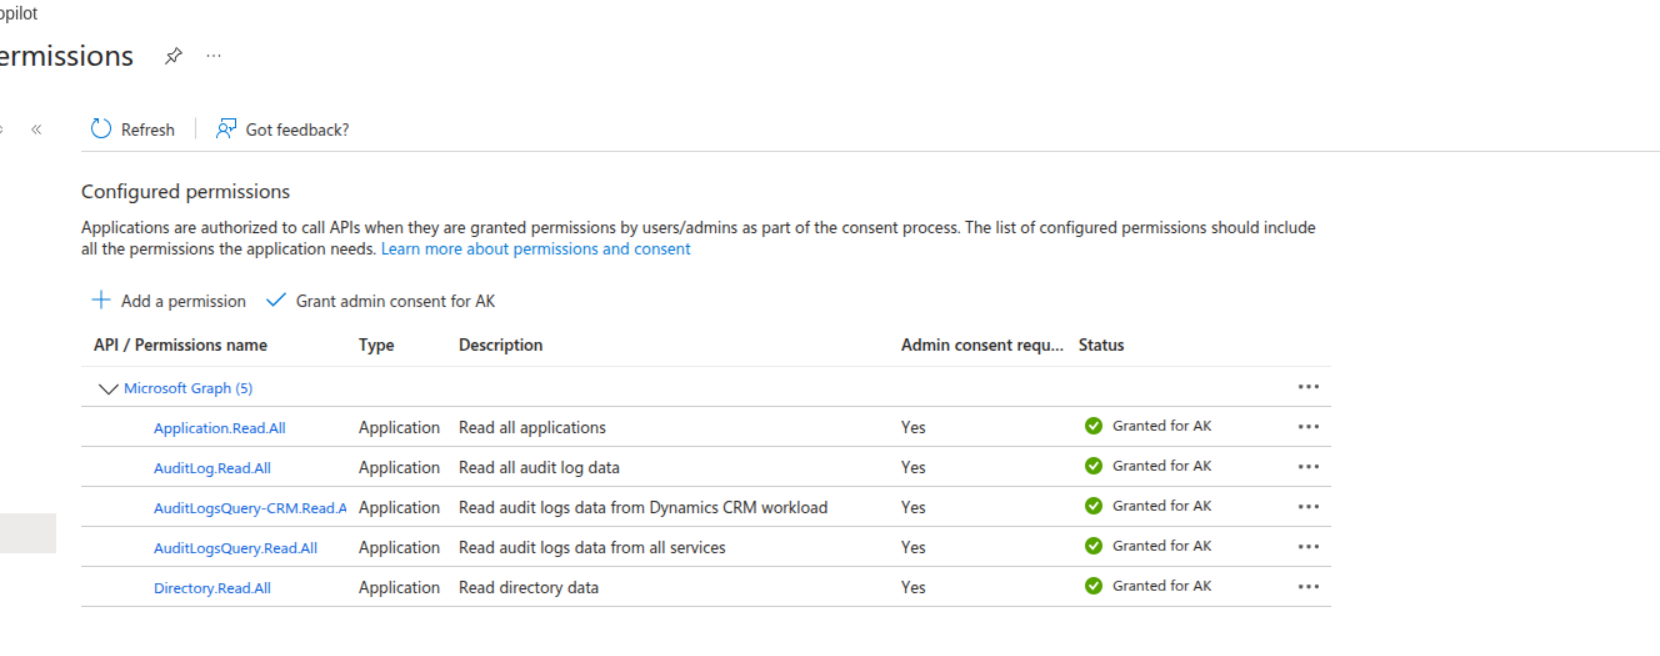
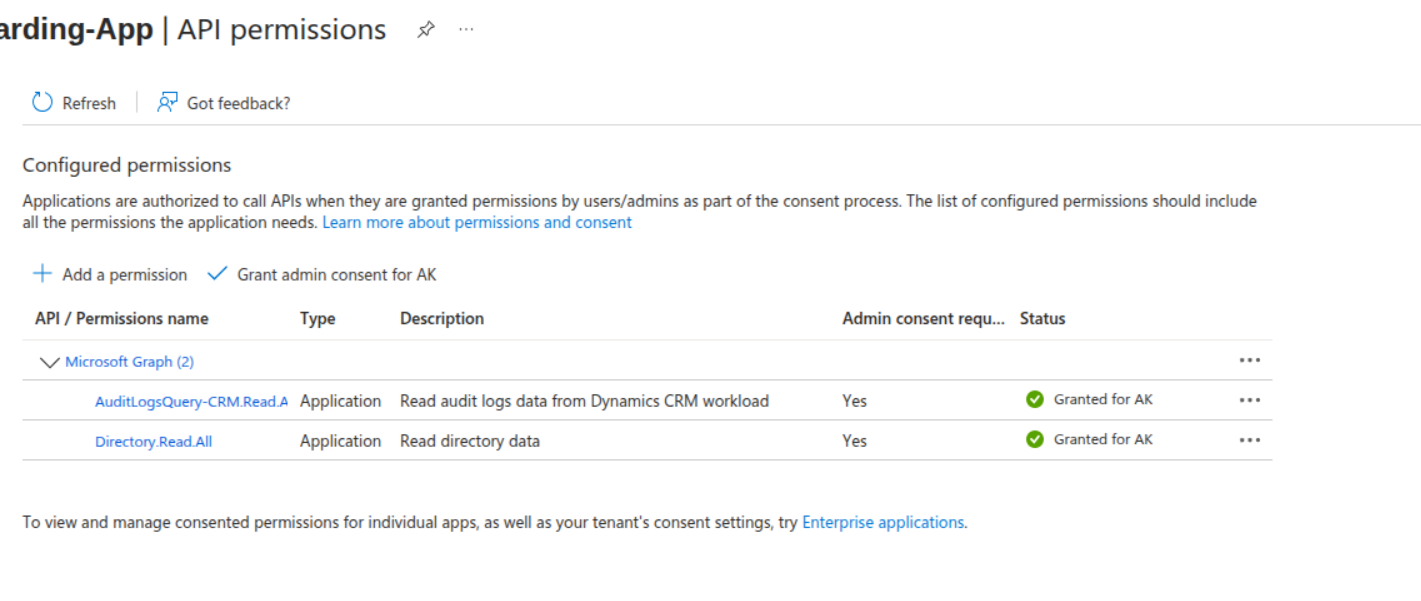
Azure custom permission update

diff --git a/docs/how-to/aiml-azure-onboard.md b/docs/how-to/aiml-azure-onboard.md
@@ -49,10 +49,7 @@ For Azure Onboarding it is required to register an App and grant Security read a
 **Step 8:** Select Application Permissions and add each of the following permissions:
 
 - `Directory.Read.All`
-- `Application.Read.All`
-- `AuditLog.Read.All`
 - `AuditLogsQuery-CRM.Read.All`
-- `AuditLogsQuery.Read.All`
 
 ![image](images/azure5-2.png)
 
@@ -77,13 +74,27 @@ For Azure Onboarding it is required to register an App and grant Security read a
 Create a custom role with the following actions:
 
 ```
-Microsoft.MachineLearningServices/workspaces/onlineEndpoints/score/action
-Microsoft.MachineLearningServices/workspaces/serverlessEndpoints/listKeys/action
-Microsoft.MachineLearningServices/workspaces/datastores/listSecrets/action
-Microsoft.MachineLearningServices/workspaces/listStorageAccountKeys/action
-Microsoft.CognitiveServices/accounts/listKeys/action
-Microsoft.CognitiveServices/accounts/deployments/read
-Microsoft.Storage/storageAccounts/listKeys/action
+ {
+    "actions": [
+        "Microsoft.MachineLearningServices/workspaces/onlineEndpoints/score/action",
+        "Microsoft.MachineLearningServices/workspaces/onlineEndpoints/token/action",
+        "Microsoft.MachineLearningServices/workspaces/serverlessEndpoints/listKeys/action",
+        "Microsoft.MachineLearningServices/workspaces/agents/action"
+    ],
+    "notActions": [],
+    "dataActions": [
+        "Microsoft.CognitiveServices/accounts/AIServices/agents/write",
+        "Microsoft.CognitiveServices/accounts/MaaS/*/action",
+        "Microsoft.CognitiveServices/accounts/OpenAI/assistants/threads/write",
+        "Microsoft.CognitiveServices/accounts/OpenAI/deployments/*/action",
+        "Microsoft.CognitiveServices/accounts/AIServices/applications/invoke/action",
+        "Microsoft.CognitiveServices/accounts/OpenAI/assistants/threads/runs/write",
+        "Microsoft.CognitiveServices/accounts/AIServices/evaluations/write",
+        "Microsoft.CognitiveServices/accounts/OpenAI/assistants/threads/messages/write"
+    ],
+    "notDataActions": []
+}
+
 ```
 
 It will look similar to this (use the above listed permissions):
